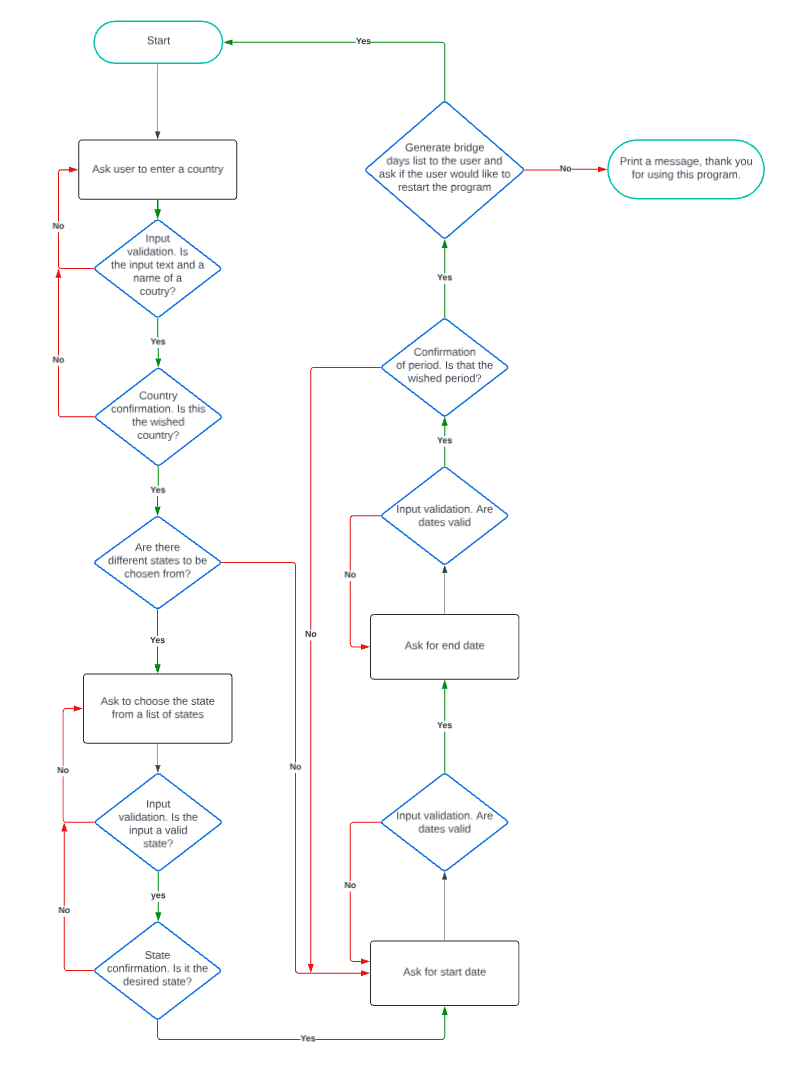
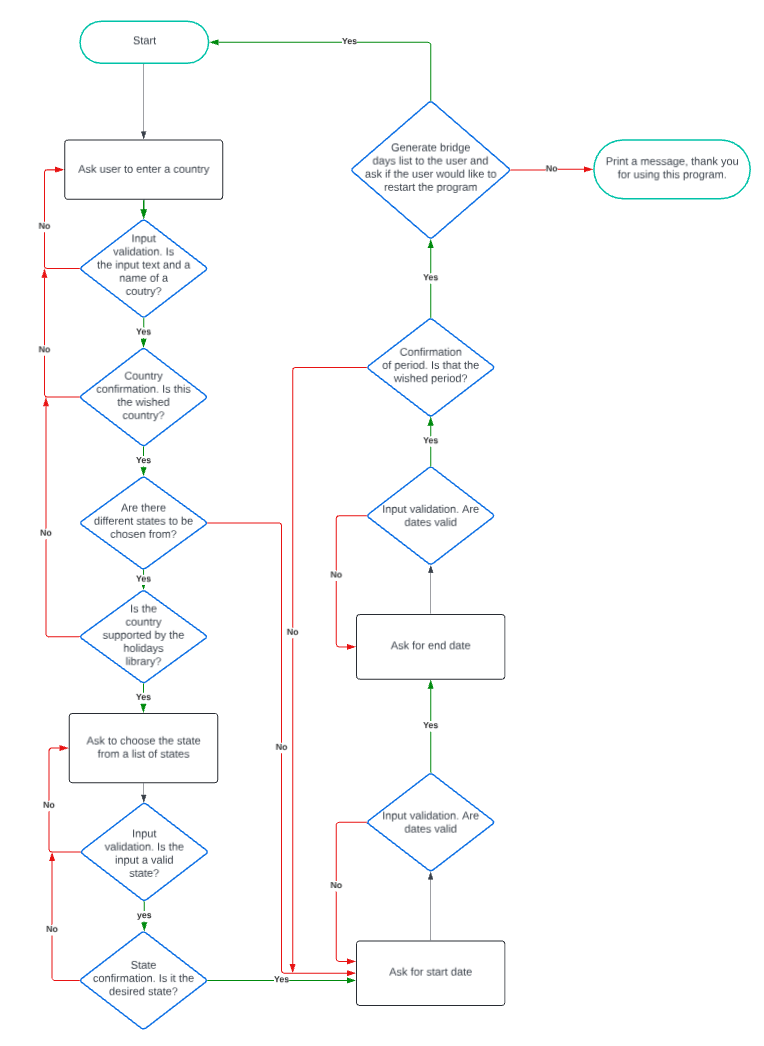
Replace final flowchart after on README

diff --git a/run.py b/run.py
@@ -97,7 +97,7 @@ def get_country():
                                 # (used on the holidays library)
                                 return abbreviation
                             else:
-                                # Country is not on library
+                                # Country is not on library.
                                 print(
                                     "\n[bright_yellow]Sorry, the country "
                                     f"'{country}' is not available in our "
@@ -119,18 +119,21 @@ def get_country():
         except ValueError as e:
             print("[bright_red]Invalid input.[/bright_red]", e)
 
+
 def is_country_supported(country, state=None):
     """
     Checks if the country (and state, if provided) is supported by the
-    holidays library. Returns True if supported, False if not supported.
+    holidays library.
     """
     try:
         # Tries to access the country in the library, if the country
         # is supported the object is created
-        country_holiday = holidays.CountryHoliday(country, state)
+        _ = holidays.CountryHoliday(country, state)
         return True
     except NotImplementedError:
+        # Country is not supported. Error message handled in get_country
         return False
+
 
 def specify_state(country):
     """
